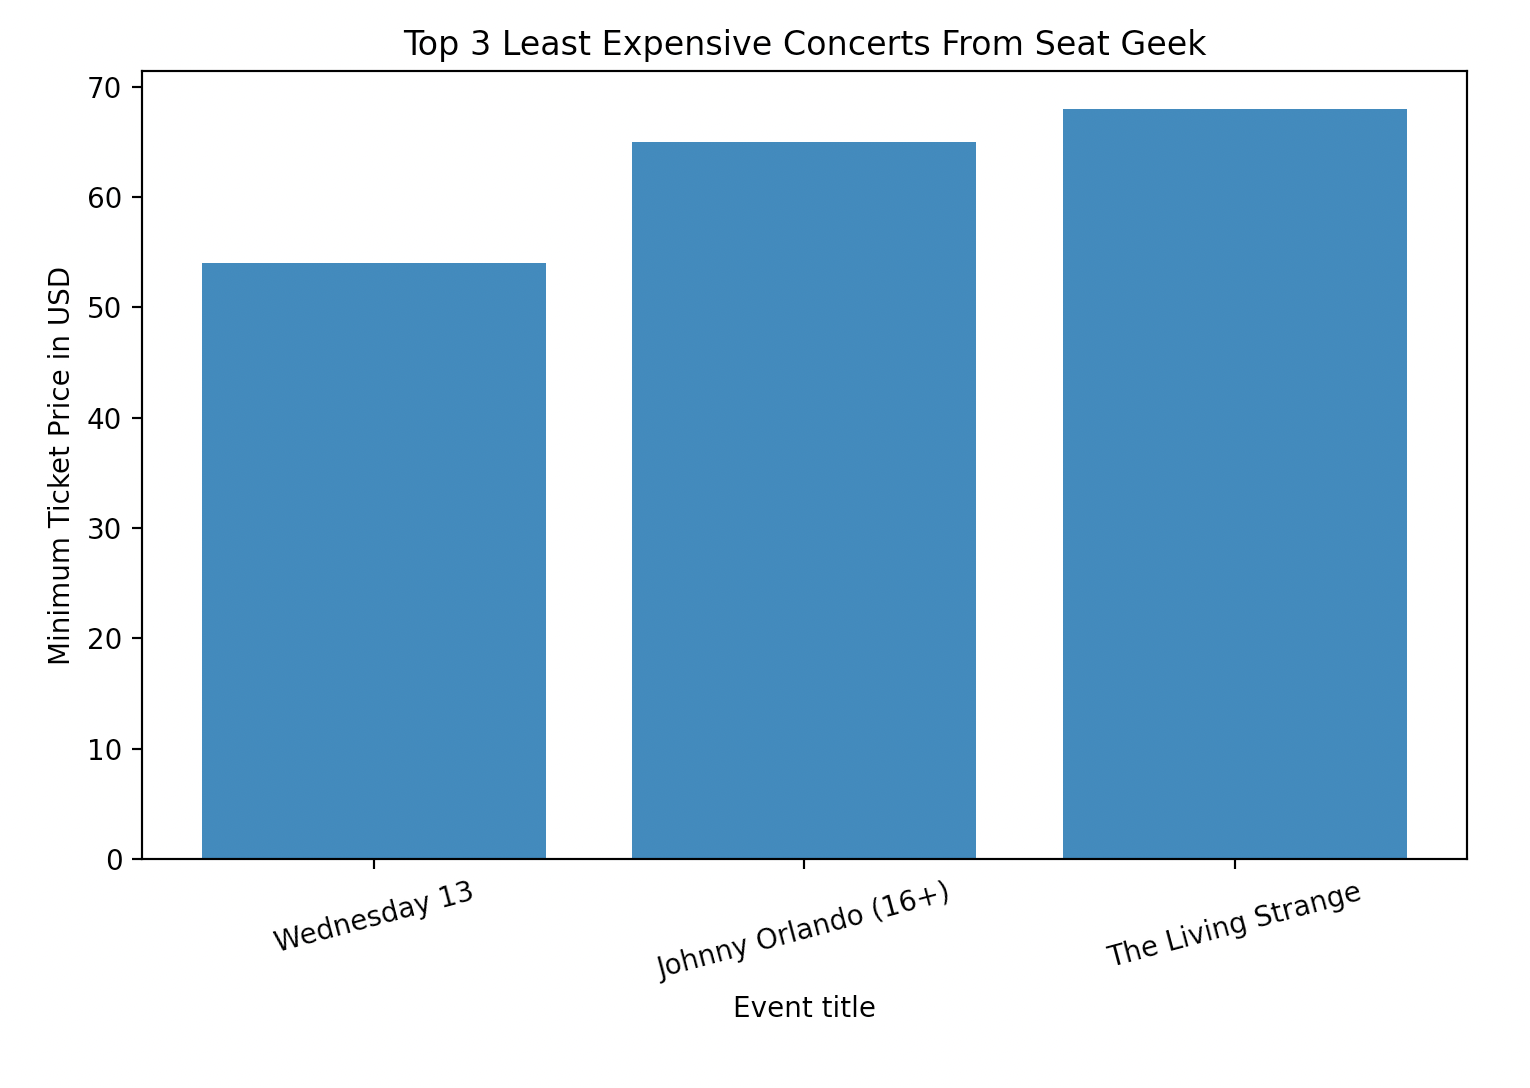
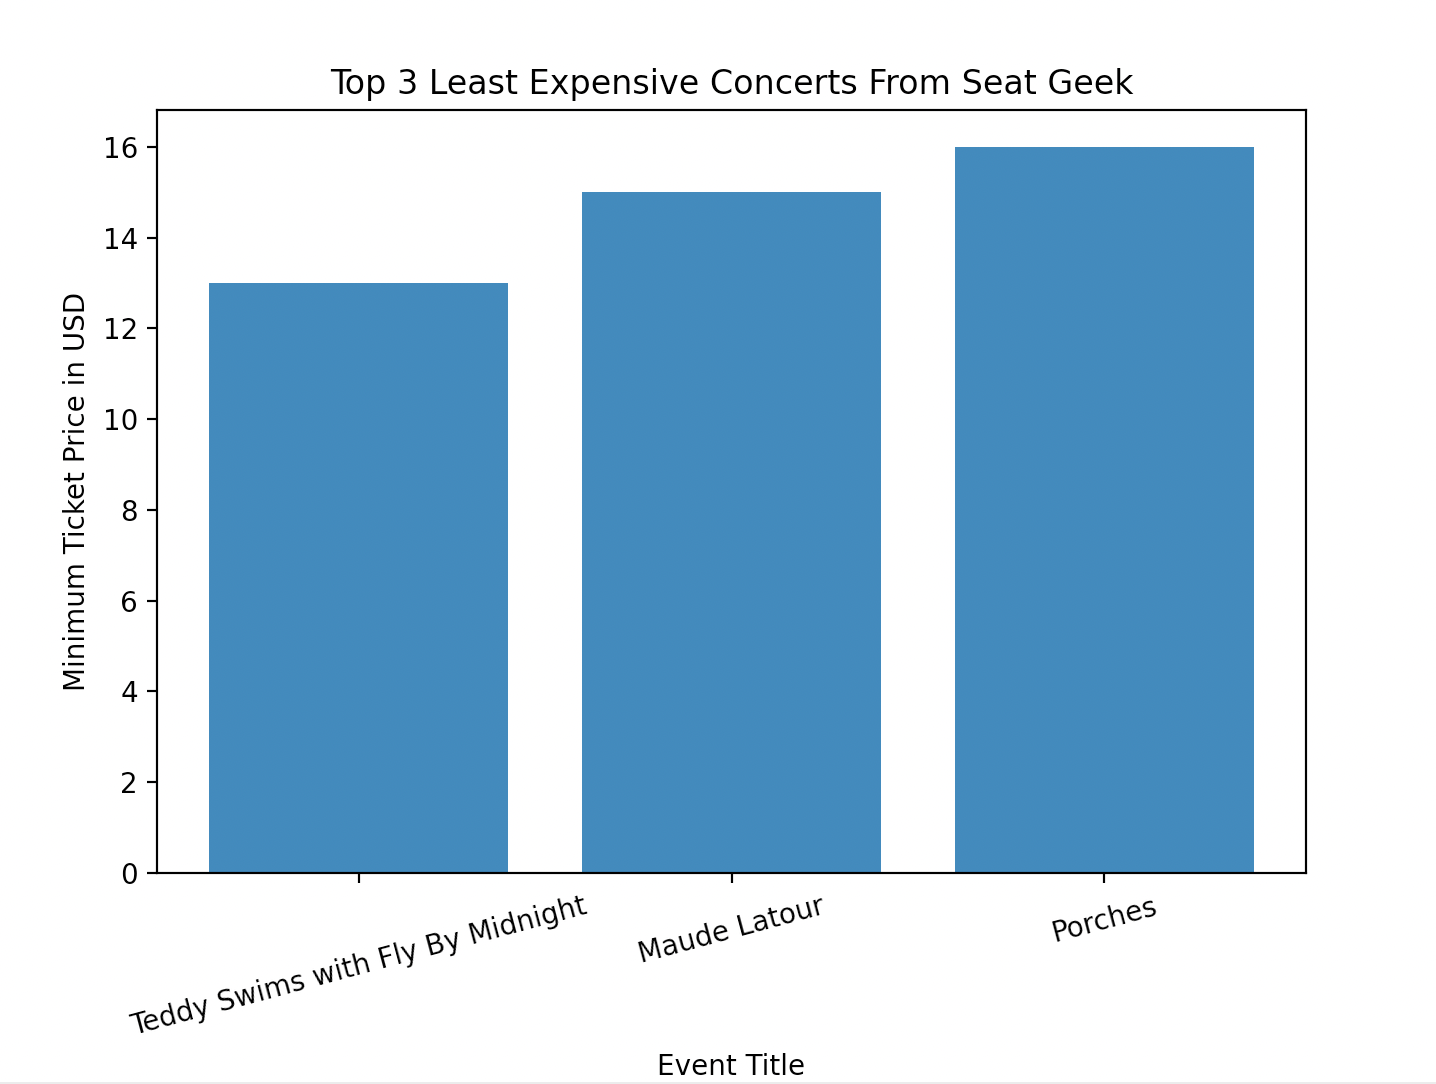
Add files via upload

diff --git a/final_project.py b/final_project.py
@@ -7,8 +7,8 @@ import csv
 import os
 
 #PULL EVENT ID FROM SEAT GEEK API
-def get_sg_events(num_of_pgs):
-    url = "https://api.seatgeek.com/2/events?client_id=MjY1NDY4OTd8MTY0OTk0NTE3My42OTY4NTg2&client_secret=a005a2e60e8f8d3e548cc78a3371d72d28b95a3d4b5a3070f41db576d70cd3ad&type=concert&per_page=25&page="+str(num_of_pgs)
+def get_sg_events(pg_num):
+    url = "https://api.seatgeek.com/2/events?client_id=MjY1NDY4OTd8MTY0OTk0NTE3My42OTY4NTg2&client_secret=a005a2e60e8f8d3e548cc78a3371d72d28b95a3d4b5a3070f41db576d70cd3ad&type=concert&per_page=25&page="+str(pg_num)
     response = requests.get(url)
     data = json.loads(response.content)
 
@@ -177,6 +177,7 @@ def write_sg_csv(cur, conn):
         for tup in event_avgs:
             writer.writerow(tup)
         writer.writerow(("Mean Price", mean))
+    f.close()
 
 #WRITE CALCULATIONS INTO CSV FOR TICKET MASTER
 def write_tm_csv(cur, conn):
@@ -198,7 +199,7 @@ def write_tm_csv(cur, conn):
 
 #MINIMUM PRICE VISUAL FOR SEAT GEEK
 def min_price_sg_visual(cur, conn):
-    cur.execute("""SELECT event_title, max_price
+    cur.execute("""SELECT event_title, min_price
     FROM Seat_Geek_Events 
     """ )
     results = cur.fetchall()
@@ -211,7 +212,7 @@ def min_price_sg_visual(cur, conn):
         y.append(min_price)
     plt.bar(x[:3],y[:3])
     plt.ylabel('Minimum Ticket Price in USD')
-    plt.xlabel('Event title')
+    plt.xlabel('Event Title')
     plt.xticks(x[:3],  rotation=15)
     plt.title('Top 3 Least Expensive Concerts From Seat Geek')
     plt.show()
@@ -288,8 +289,8 @@ def main():
     calc_tm_avgs(cur, conn)
     calc_tm_mean(cur, conn)
 
-    #write_sg_csv(cur, conn)
-    #write_tm_csv(cur, conn)
+    write_sg_csv(cur, conn)
+    write_tm_csv(cur, conn)
 
     min_price_sg_visual(cur,conn)
     max_price_sg_visual(cur, conn)
